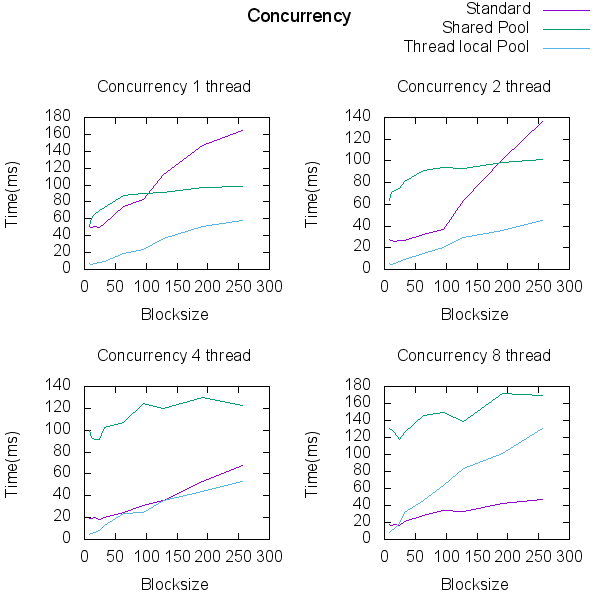
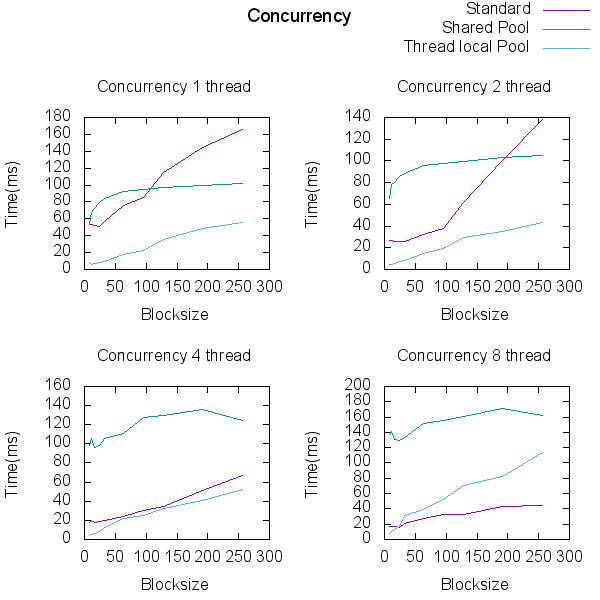
Added alignment for the pool allocator and updated concurrency and simple allocation test

diff --git a/src/core/subsystem/testing/SSToiPoolTest.h b/src/core/subsystem/testing/SSToiPoolTest.h
@@ -33,14 +33,14 @@ private:
 	void SimpleAllocPoolShared() {
 		size_t** allocs = new size_t*[TOI_TEMPLATED_LOCKABLE_POOL_ALLOCATOR_NR_OF_BLOCKS];
 		{
-			PROFILE( AutoProfiler profile( "SimpleAllocPoolShared" + rToString( BlockSize ), Profiler::PROFILER_CATEGORY_STANDARD ) );
+			PROFILE( AutoProfiler profile( "SimpleAllocPoolShared," + rToString( BlockSize ), Profiler::PROFILER_CATEGORY_STANDARD ) );
 			for ( int i = 0; i < TOI_TEMPLATED_LOCKABLE_POOL_ALLOCATOR_NR_OF_BLOCKS; ++i ) {
 				allocs[i] = ( size_t* )poolAlloc( BlockSize );
 			}
 		}
 
 		{
-			PROFILE( AutoProfiler profile( "SimpleDeallocPoolShared" + rToString( BlockSize ), Profiler::PROFILER_CATEGORY_STANDARD ) );
+			PROFILE( AutoProfiler profile( "SimpleDeallocPoolShared," + rToString( BlockSize ), Profiler::PROFILER_CATEGORY_STANDARD ) );
 			for ( int i = 0; i < TOI_TEMPLATED_LOCKABLE_POOL_ALLOCATOR_NR_OF_BLOCKS; ++i ) {
 				poolFree( BlockSize, allocs[i] );
 			}
@@ -52,14 +52,14 @@ private:
 		poolThreadFree( BlockSize, poolThreadAlloc( BlockSize ) );
 		size_t** allocs = new size_t*[TOI_TEMPLATED_LOCKABLE_POOL_ALLOCATOR_NR_OF_BLOCKS];
 		{
-			PROFILE( AutoProfiler profile( "SimpleAllocPoolThreadLocal" + rToString( BlockSize ), Profiler::PROFILER_CATEGORY_STANDARD ) );
+			PROFILE( AutoProfiler profile( "SimpleAllocPoolThreadLocal," + rToString( BlockSize ), Profiler::PROFILER_CATEGORY_STANDARD ) );
 			for ( int i = 0; i < TOI_TEMPLATED_LOCKABLE_POOL_ALLOCATOR_NR_OF_BLOCKS; ++i ) {
 				allocs[i] = ( size_t* )poolThreadAlloc( BlockSize );
 			}
 		}
 
 		{
-			PROFILE( AutoProfiler profile( "SimpleDeallocPoolThreadLocal" + rToString( BlockSize ), Profiler::PROFILER_CATEGORY_STANDARD ) );
+			PROFILE( AutoProfiler profile( "SimpleDeallocPoolThreadLocal," + rToString( BlockSize ), Profiler::PROFILER_CATEGORY_STANDARD ) );
 			for ( int i = 0; i < TOI_TEMPLATED_LOCKABLE_POOL_ALLOCATOR_NR_OF_BLOCKS; ++i ) {
 				poolThreadFree( BlockSize, allocs[i] );
 			}
@@ -70,14 +70,14 @@ private:
 	void SimpleAllocPoolSTD( size_t blockSize ) {
 		size_t** allocs = new size_t*[TOI_TEMPLATED_LOCKABLE_POOL_ALLOCATOR_NR_OF_BLOCKS];
 		{
-			PROFILE( AutoProfiler profile( "SimpleSTDalloc" + rToString( blockSize ), Profiler::PROFILER_CATEGORY_STANDARD ) );
+			PROFILE( AutoProfiler profile( "SimpleSTDalloc," + rToString( blockSize ), Profiler::PROFILER_CATEGORY_STANDARD ) );
 			for ( int i = 0; i < TOI_TEMPLATED_LOCKABLE_POOL_ALLOCATOR_NR_OF_BLOCKS; ++i ) {
 				allocs[i] = ( size_t* )operator new( blockSize );
 			}
 		}
 
 		{
-			PROFILE( AutoProfiler profile( "SimpleSTDdealloc" + rToString( blockSize ), Profiler::PROFILER_CATEGORY_STANDARD ) );
+			PROFILE( AutoProfiler profile( "SimpleSTDdealloc," + rToString( blockSize ), Profiler::PROFILER_CATEGORY_STANDARD ) );
 			for ( int i = 0; i < TOI_TEMPLATED_LOCKABLE_POOL_ALLOCATOR_NR_OF_BLOCKS; ++i ) {
 				free( allocs[i] );
 			}

diff --git a/src/memory/ToiTemplatedPoolAllocator.h b/src/memory/ToiTemplatedPoolAllocator.h
@@ -43,8 +43,13 @@ public:
 		std::cout << "Creating templated pool allocator for blocksize " << BlockSize << std::endl;
 #endif
 
-		m_Memory = static_cast<uint8_t*>( operator new( BlockSize * NrOfBlocks ) );
+		m_ActualAllocation = static_cast<uint8_t*>( operator new( BlockSize * NrOfBlocks + BlockSize ) );
 
+		// Align allocation to block size
+		size_t mask = reinterpret_cast<size_t>( m_ActualAllocation ) & ( BlockSize - 1 );
+		m_Memory = reinterpret_cast<uint8_t*>( reinterpret_cast<size_t>( m_ActualAllocation ) + ( mask > 0 ? BlockSize - mask : 0 ) );
+
+		// Fill blocks
 		for ( size_t i = 0; i < NrOfBlocks * BlockSize; i+= BlockSize ) {
 			size_t* nextFree = reinterpret_cast<size_t*>( m_Memory + i );
 			*nextFree = reinterpret_cast<size_t>( m_Memory + i + BlockSize );
@@ -60,7 +65,7 @@ public:
 #ifdef TOI_TEMPLATED_POOL_ALLOCATOR_COUT_INFO
 		std::cout << "Destroying templated pool allocator for blocksize " << BlockSize << std::endl;
 #endif
-		free( m_Memory );
+		free( m_ActualAllocation );
 	}
 
 	void* allocate( ) {
@@ -115,6 +120,7 @@ public:
 
 private:
 	uint8_t* m_Memory = nullptr;
+	uint8_t* m_ActualAllocation = nullptr;
 	size_t* m_FirstFree = nullptr;
 
 };

diff --git a/src/memory/ToiTemplatedLockablePoolAllocator.h b/src/memory/ToiTemplatedLockablePoolAllocator.h
@@ -54,7 +54,11 @@ public:
 		std::cout << "Creating templated pool allocator for blocksize " << BlockSize << std::endl;
 #endif
 
-		m_Memory = static_cast<uint8_t*>( operator new( BlockSize * NrOfBlocks ) );
+		m_ActualAllocation = static_cast<uint8_t*>( operator new( BlockSize * NrOfBlocks + BlockSize ) );
+
+		// Align allocation to block size
+		size_t mask = reinterpret_cast<size_t>( m_ActualAllocation ) & ( BlockSize - 1 );
+		m_Memory = reinterpret_cast<uint8_t*>( reinterpret_cast<size_t>( m_ActualAllocation ) + ( mask > 0 ? BlockSize - mask : 0 ) );
 
 		for ( size_t i = 0; i < NrOfBlocks * BlockSize; i+= BlockSize ) {
 			size_t* nextFree = reinterpret_cast<size_t*>( m_Memory + i );
@@ -71,7 +75,7 @@ public:
 #ifdef TOI_TEMPLATED_LOCKABLE_POOL_ALLOCATOR_COUT_INFO
 		std::cout << "Destroying templated pool allocator for blocksize " << BlockSize << std::endl;
 #endif
-		free( m_Memory );
+		free( m_ActualAllocation );
 	}
 
 	void* allocate( ) {
@@ -162,6 +166,7 @@ public:
 
 private:
 	uint8_t* m_Memory = nullptr;
+	uint8_t* m_ActualAllocation = nullptr;
 	size_t* m_FirstFree = nullptr;
 
 #ifdef TOI_TEMPLATED_LOCKABLE_POOL_ALLOCATOR_MUTEX_LOCK

diff --git a/src/core/subsystem/testing/SSPoolThreadingTest.cpp b/src/core/subsystem/testing/SSPoolThreadingTest.cpp
@@ -87,8 +87,8 @@ void SSPoolThreadingTest::Shutdown( SubsystemCollection* const ) {
 }
 
 void SSPoolThreadingTest::UpdateUserLayer( const float ) {
-	if ( g_Input.KeyUpDown( SDL_SCANCODE_C ) ) {
-		for ( size_t i = 0; i < 10; ++i ) {
+	if ( g_Input.KeyUpDown( SDL_SCANCODE_V ) ) {
+		for ( size_t i = 0; i < 50; ++i ) {
 			m_NrOfThreads = 1;
 			RunTests();
 			m_NrOfThreads = 2;
